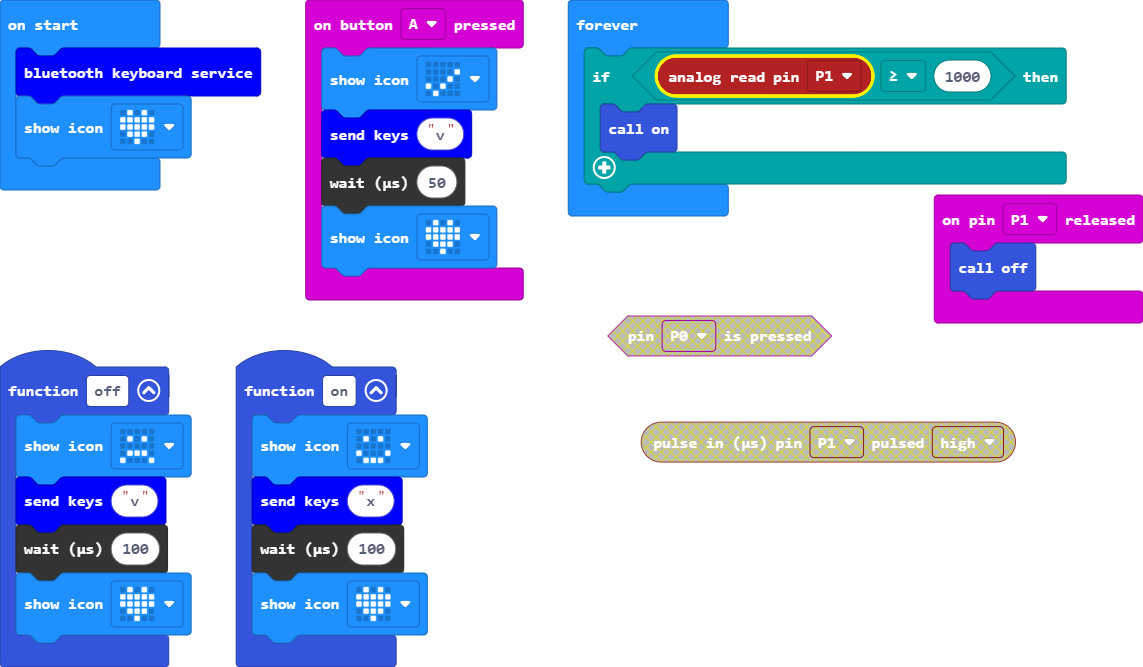
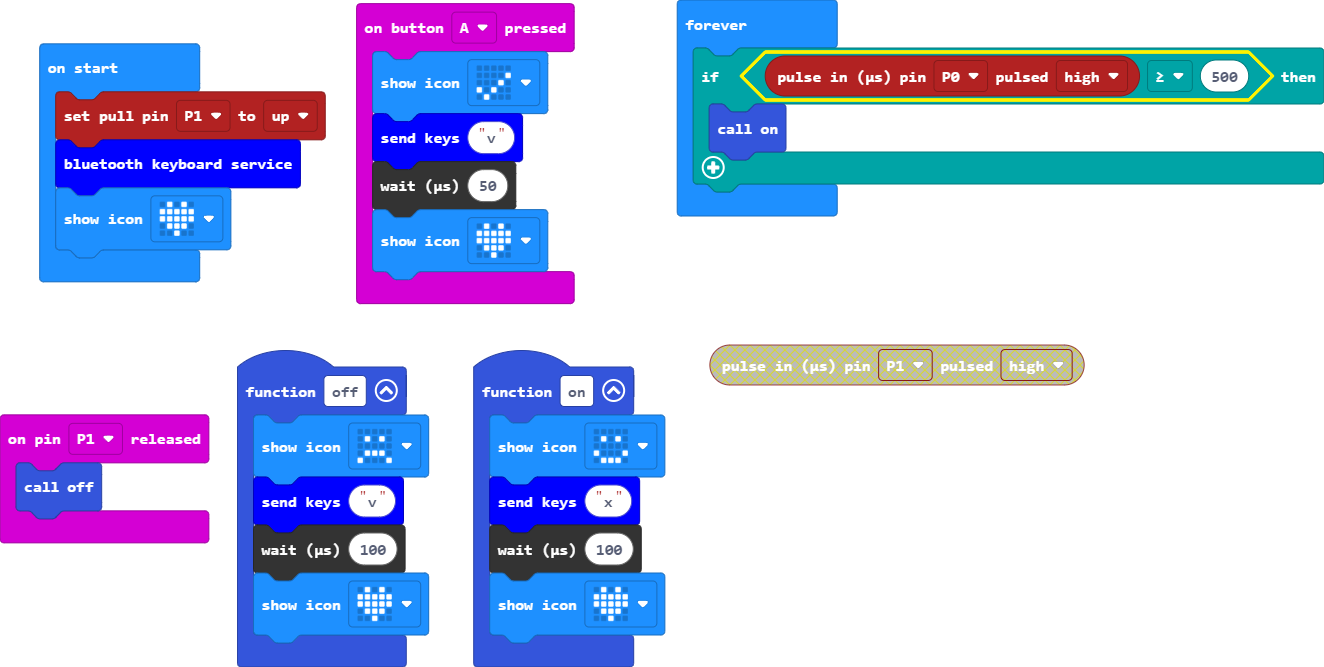
Update main.blocks, main.ts, main.py

diff --git a/main.ts b/main.ts
@@ -19,10 +19,11 @@ function on () {
 input.onPinReleased(TouchPin.P1, function () {
     off()
 })
+pins.setPull(DigitalPin.P1, PinPullMode.PullUp)
 keyboard.startKeyboardService()
 basic.showIcon(IconNames.Heart)
 basic.forever(function () {
-    if (pins.analogReadPin(AnalogPin.P1) >= 1000) {
+    if (pins.pulseIn(DigitalPin.P0, PulseValue.High) >= 500) {
         on()
     }
 })

diff --git a/main.py b/main.py
@@ -1,3 +1,7 @@
+def on_pin_pressed_p0():
+    on()
+input.on_pin_pressed(TouchPin.P0, on_pin_pressed_p0)
+
 def on_button_pressed_a():
     basic.show_icon(IconNames.YES)
     keyboard.send_string("v")
@@ -19,10 +23,10 @@ def on():
 def on_pin_released_p1():
     off()
 input.on_pin_released(TouchPin.P1, on_pin_released_p1)
+
 keyboard.start_keyboard_service()
 basic.show_icon(IconNames.HEART)
 
 def on_forever():
-    if input.pin_is_pressed(TouchPin.P0):
-        on()
+    pass
 basic.forever(on_forever)
